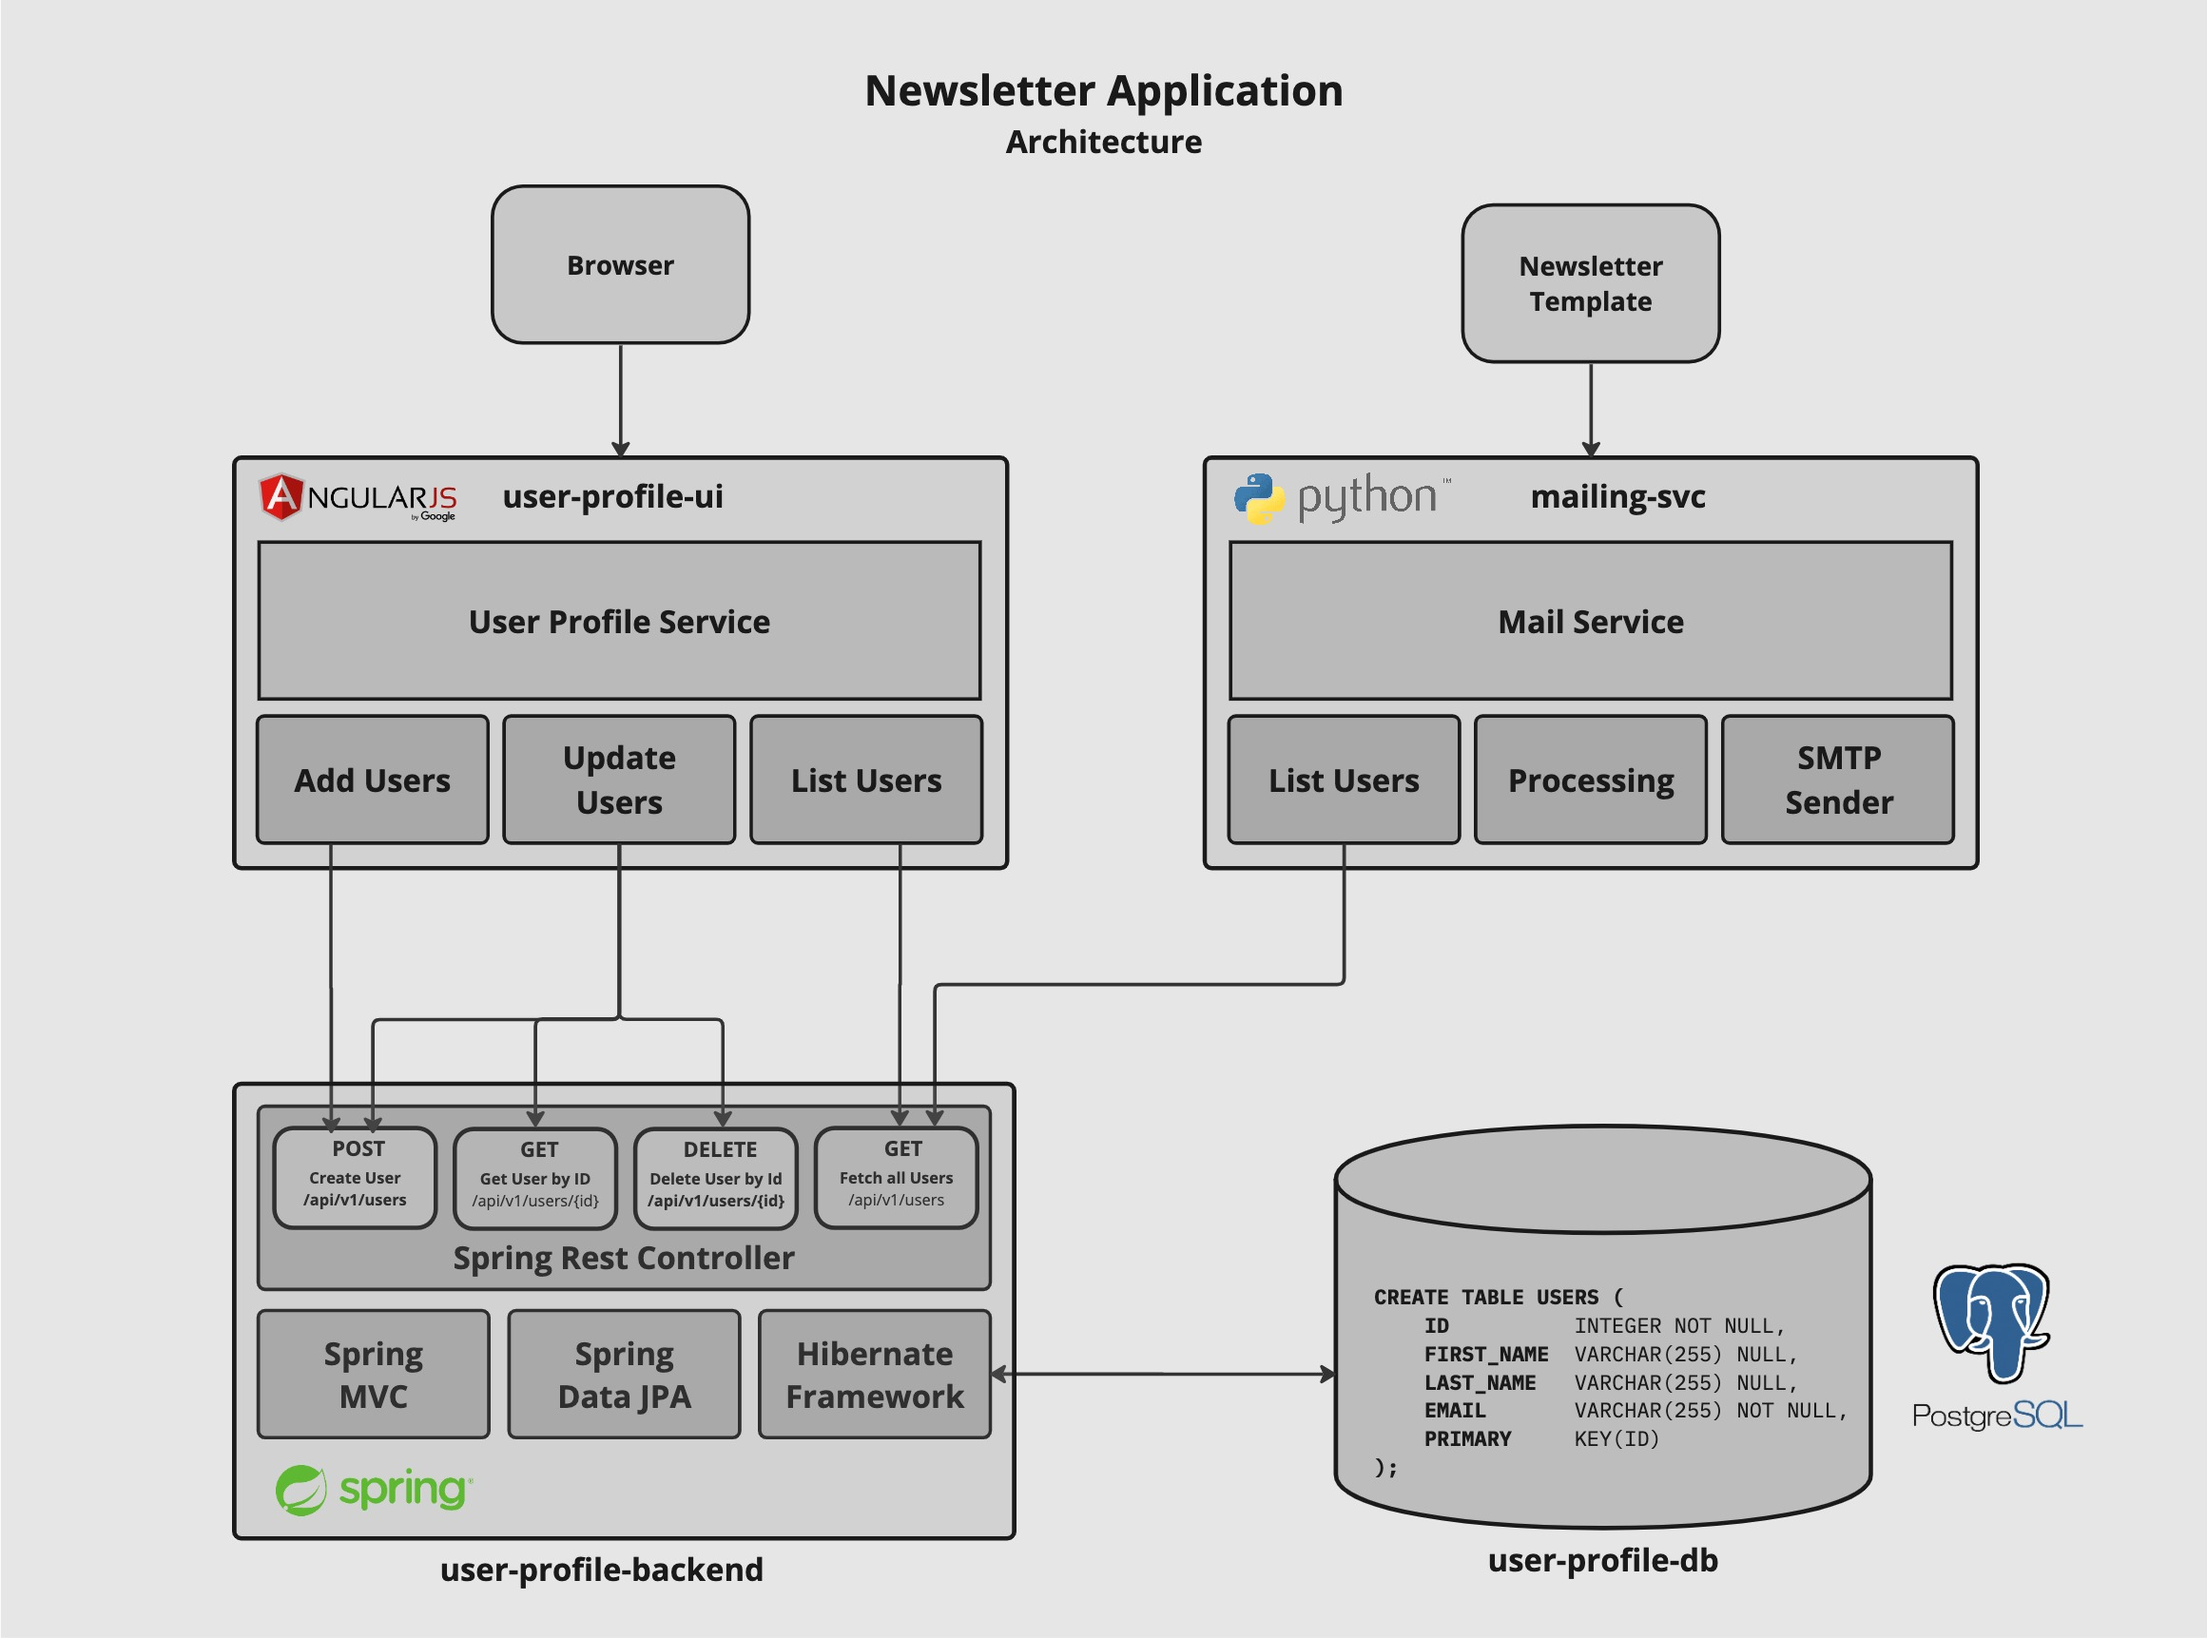
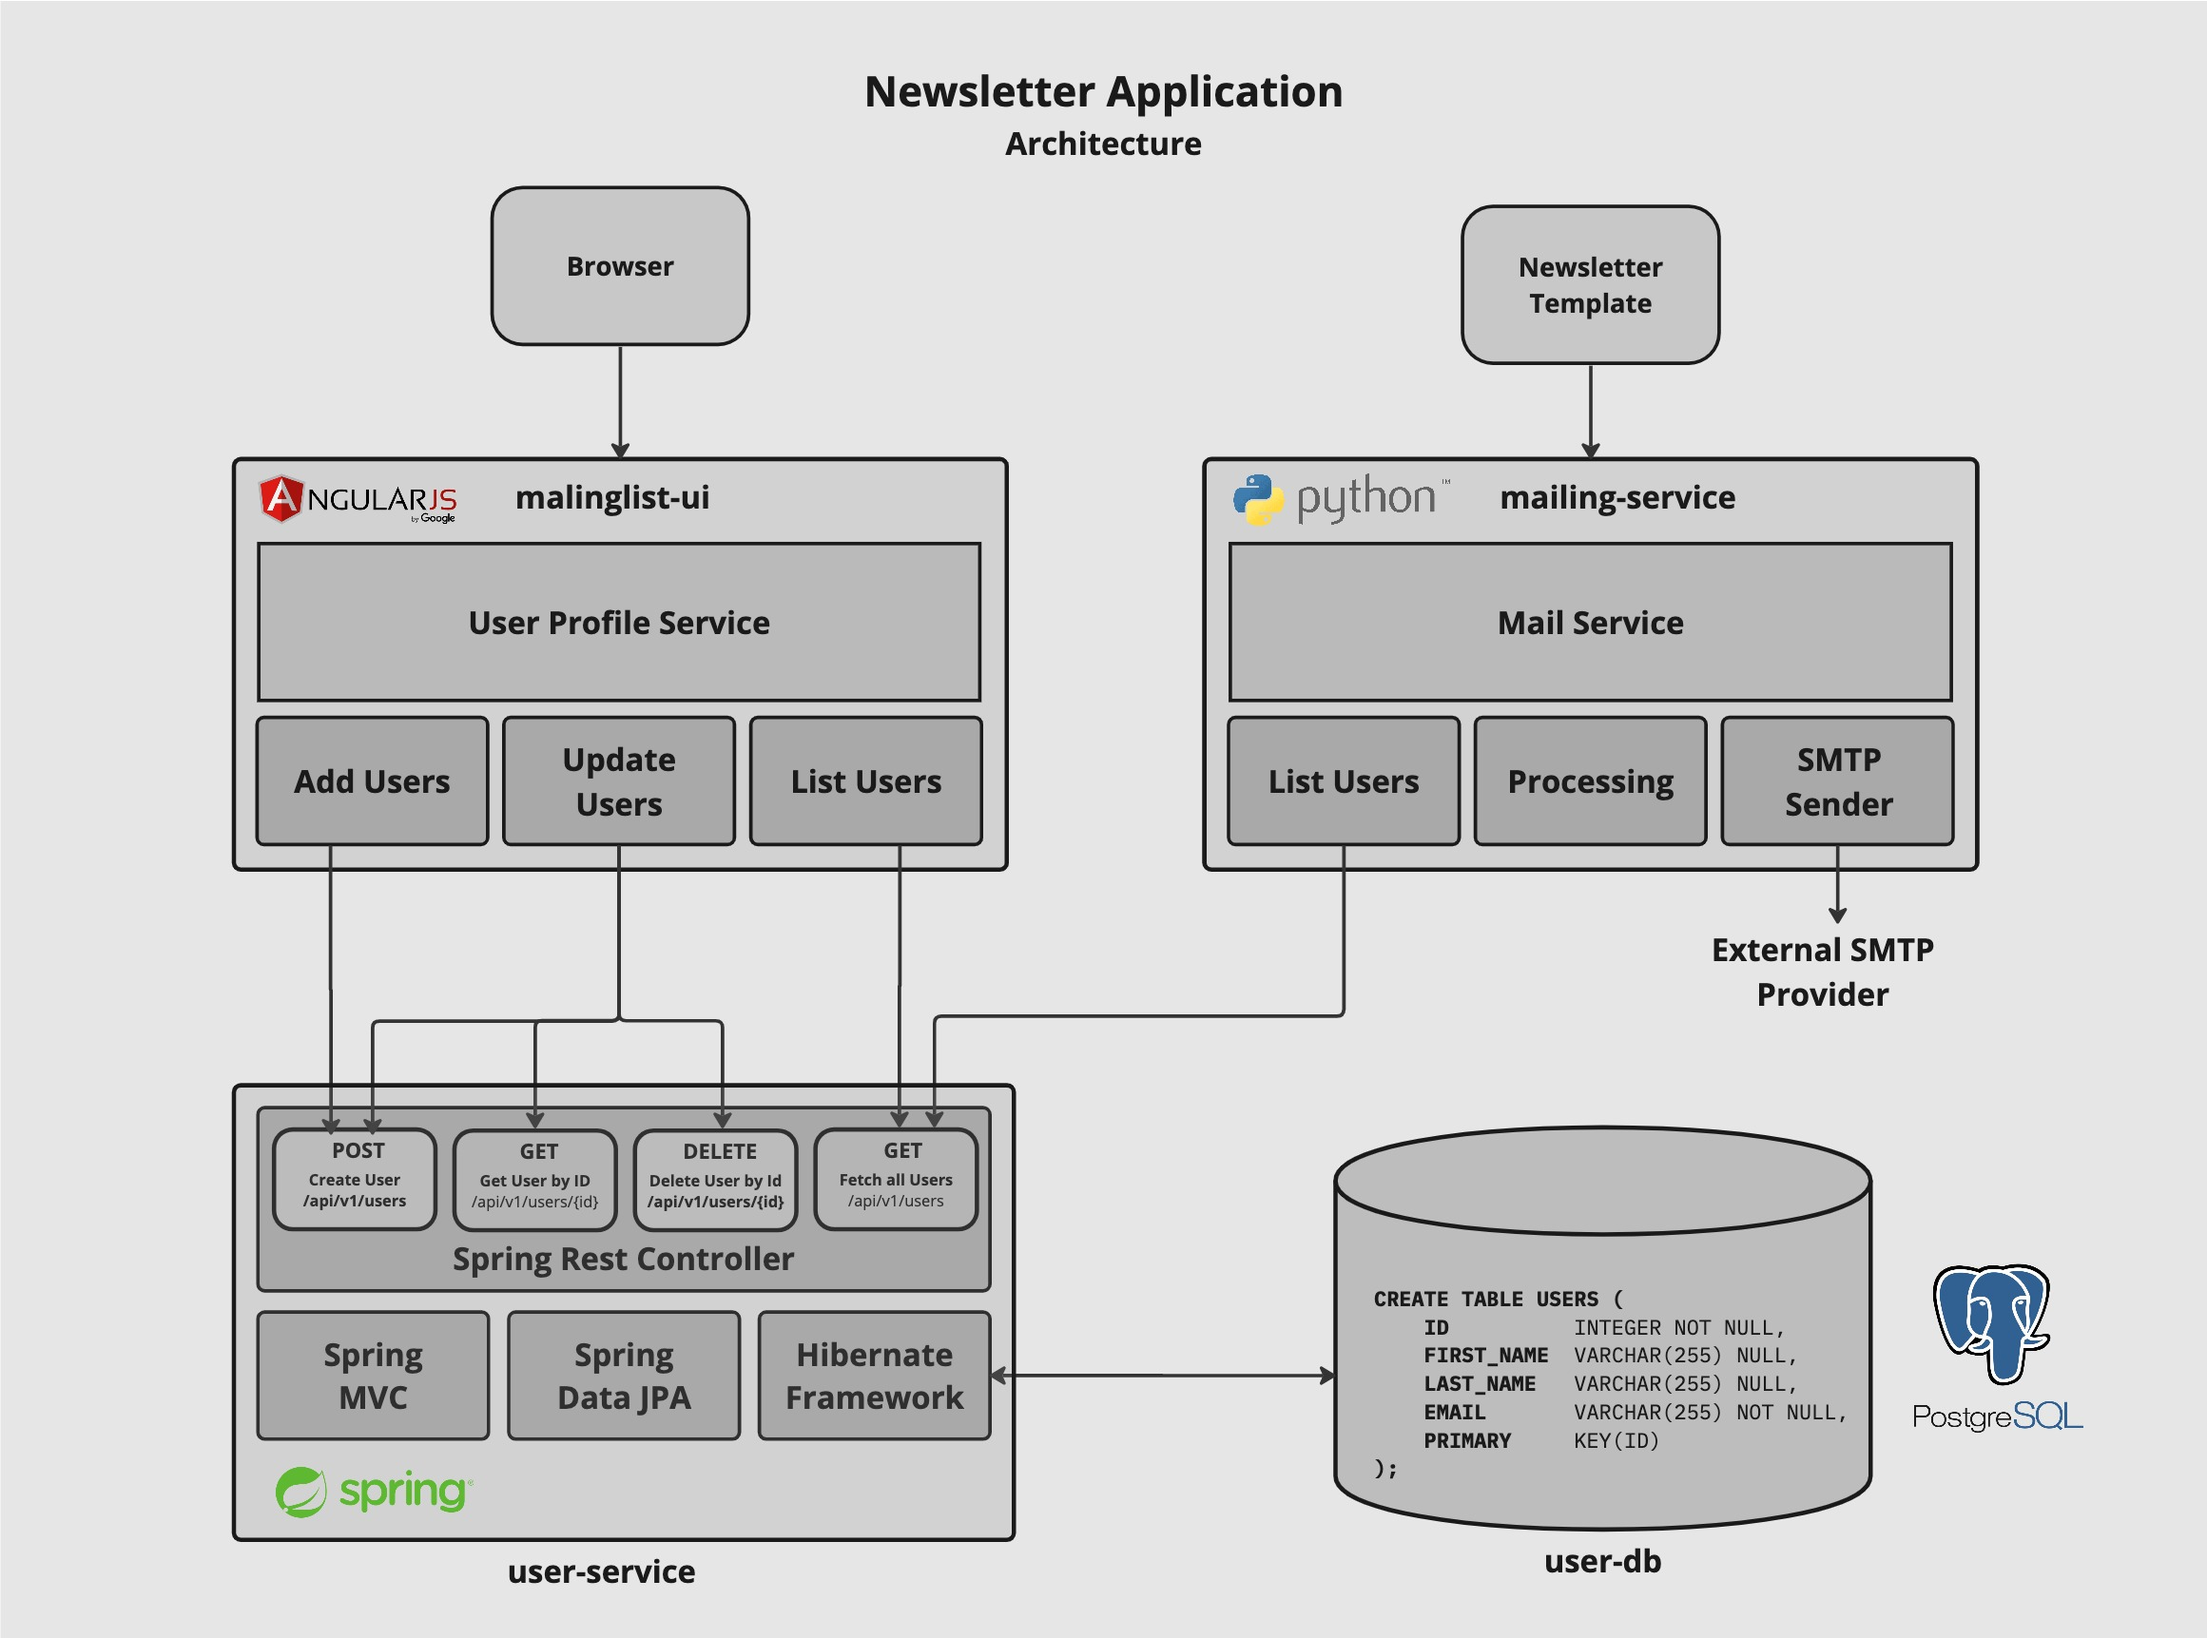
testing

diff --git a/catalog/docs/index.md b/catalog/docs/index.md
@@ -1,18 +1,36 @@
-# Newsletter - Demo Application for Tanzu Applicaiton Platform (TAP)
+# Newsletter Applicaiton
 This Project has been designed as a demo application for the Tanzu Applicaiton Platform (TAP). The Demo currently only
 implements the User Profile Management as part of the Guestbook application and is basing on a
 the guestbook-user-db, guestbook-user-svc and the guestbook-ui.
 
-The picture below shows the architecture of the Guestbook Application:
+The picture below shows the architecture of the Newsletter Application:
 ![guestbook-architecture](images/newsletter.jpg)
 
-## Applicaiton Components
 Applicaiton Components
-- guestbook-ui - Is an AngularJS Frontent for the Guestbook User Profile Management and interacts directly with the user-profile-backend
-- guestbook-user-svc - Is a spring boot REST API service and acts as a backend for the User Profile Management Service
-- guestbook-user-db - PostgrSQL Database backend as persistent storage for the user profiles.
-- guestbook-posting-svc - Is a spring boot REST API service and acts as a backend for the User Profile Management Service
-- guestbook-posting-db - PostgrSQL Database backend as persistent storage for the user profiles.
+- newsletter-ui - Is an AngularJS Frontent for the Guestbook User Profile Management and interacts directly with the user-profile-backend
+- user-service - Is a spring boot REST API service and acts as a backend for the User Profile Management Service
+- user-db - PostgrSQL Database backend as persistent storage for the user profiles.
+- mailing-service - The mailing-service is responsible for sending the newsletter to the recipients provided by the user-service app
+
+## Newsletter User Interface (newsletter-ui)
+The Newsletter User Interface is a Web Frontent basing on AngularJS that allows user to signup to the Newsletter. The Interface allows users to 
+register themself to the Newsleter Service and modify or delete their data records afterwards. The Newsleter User Interfaces interacts with the 
+API provided Newsleter User Service to abstract direct connection to the Newsletter User Database. 
+
+## Newsletter User Service (newsletter-user-service)
+The Newsletter User Service is the Backend of the Newsletter User Interface and provides an interface (RestFULL) for the application components 
+(newletter-ui or the mailing-service) to interact with cwits API. The the Newsletter User Service uses a PostgreSQL database backend to store 
+persistent user data records. This abstraction allows better to controll who is acessing the service and new service features can be implemented 
+by introducting a new API Version. As well its planned to integrate a circuit breaker in the NEwsleter User Service in a fulure version to prent 
+the service from overloading.
+
+## Newsletter User Database (newsletter-user-db)
+Tje Newsletter User Database acts as backend for the Newsletter User Service and is basing on a PostgreSQL Database running in a container with 
+the same Kubernetes Namespace as the application. The Database is deployed and Managed trough the PostgreSQL Operator running in the default namespace
+of the same cluster. Morge information about the VMware PostgreSQL Operator can be seen in the documentation 
+[VMware SQL with Postgres for Kubernetes Operator](https://docs.vmware.com/en/VMware-SQL-with-Postgres-for-Kubernetes/2.0/vmware-postgres-k8s/GUID-install-operator.html).
+
+## Newsletter Sailing Service (newsletter-mailing-service)
 
 Deployment Scenarios
 The Guestbook application can be deployed local on a Workstation / Laptop which usually the first choise of a developer with the limitation
